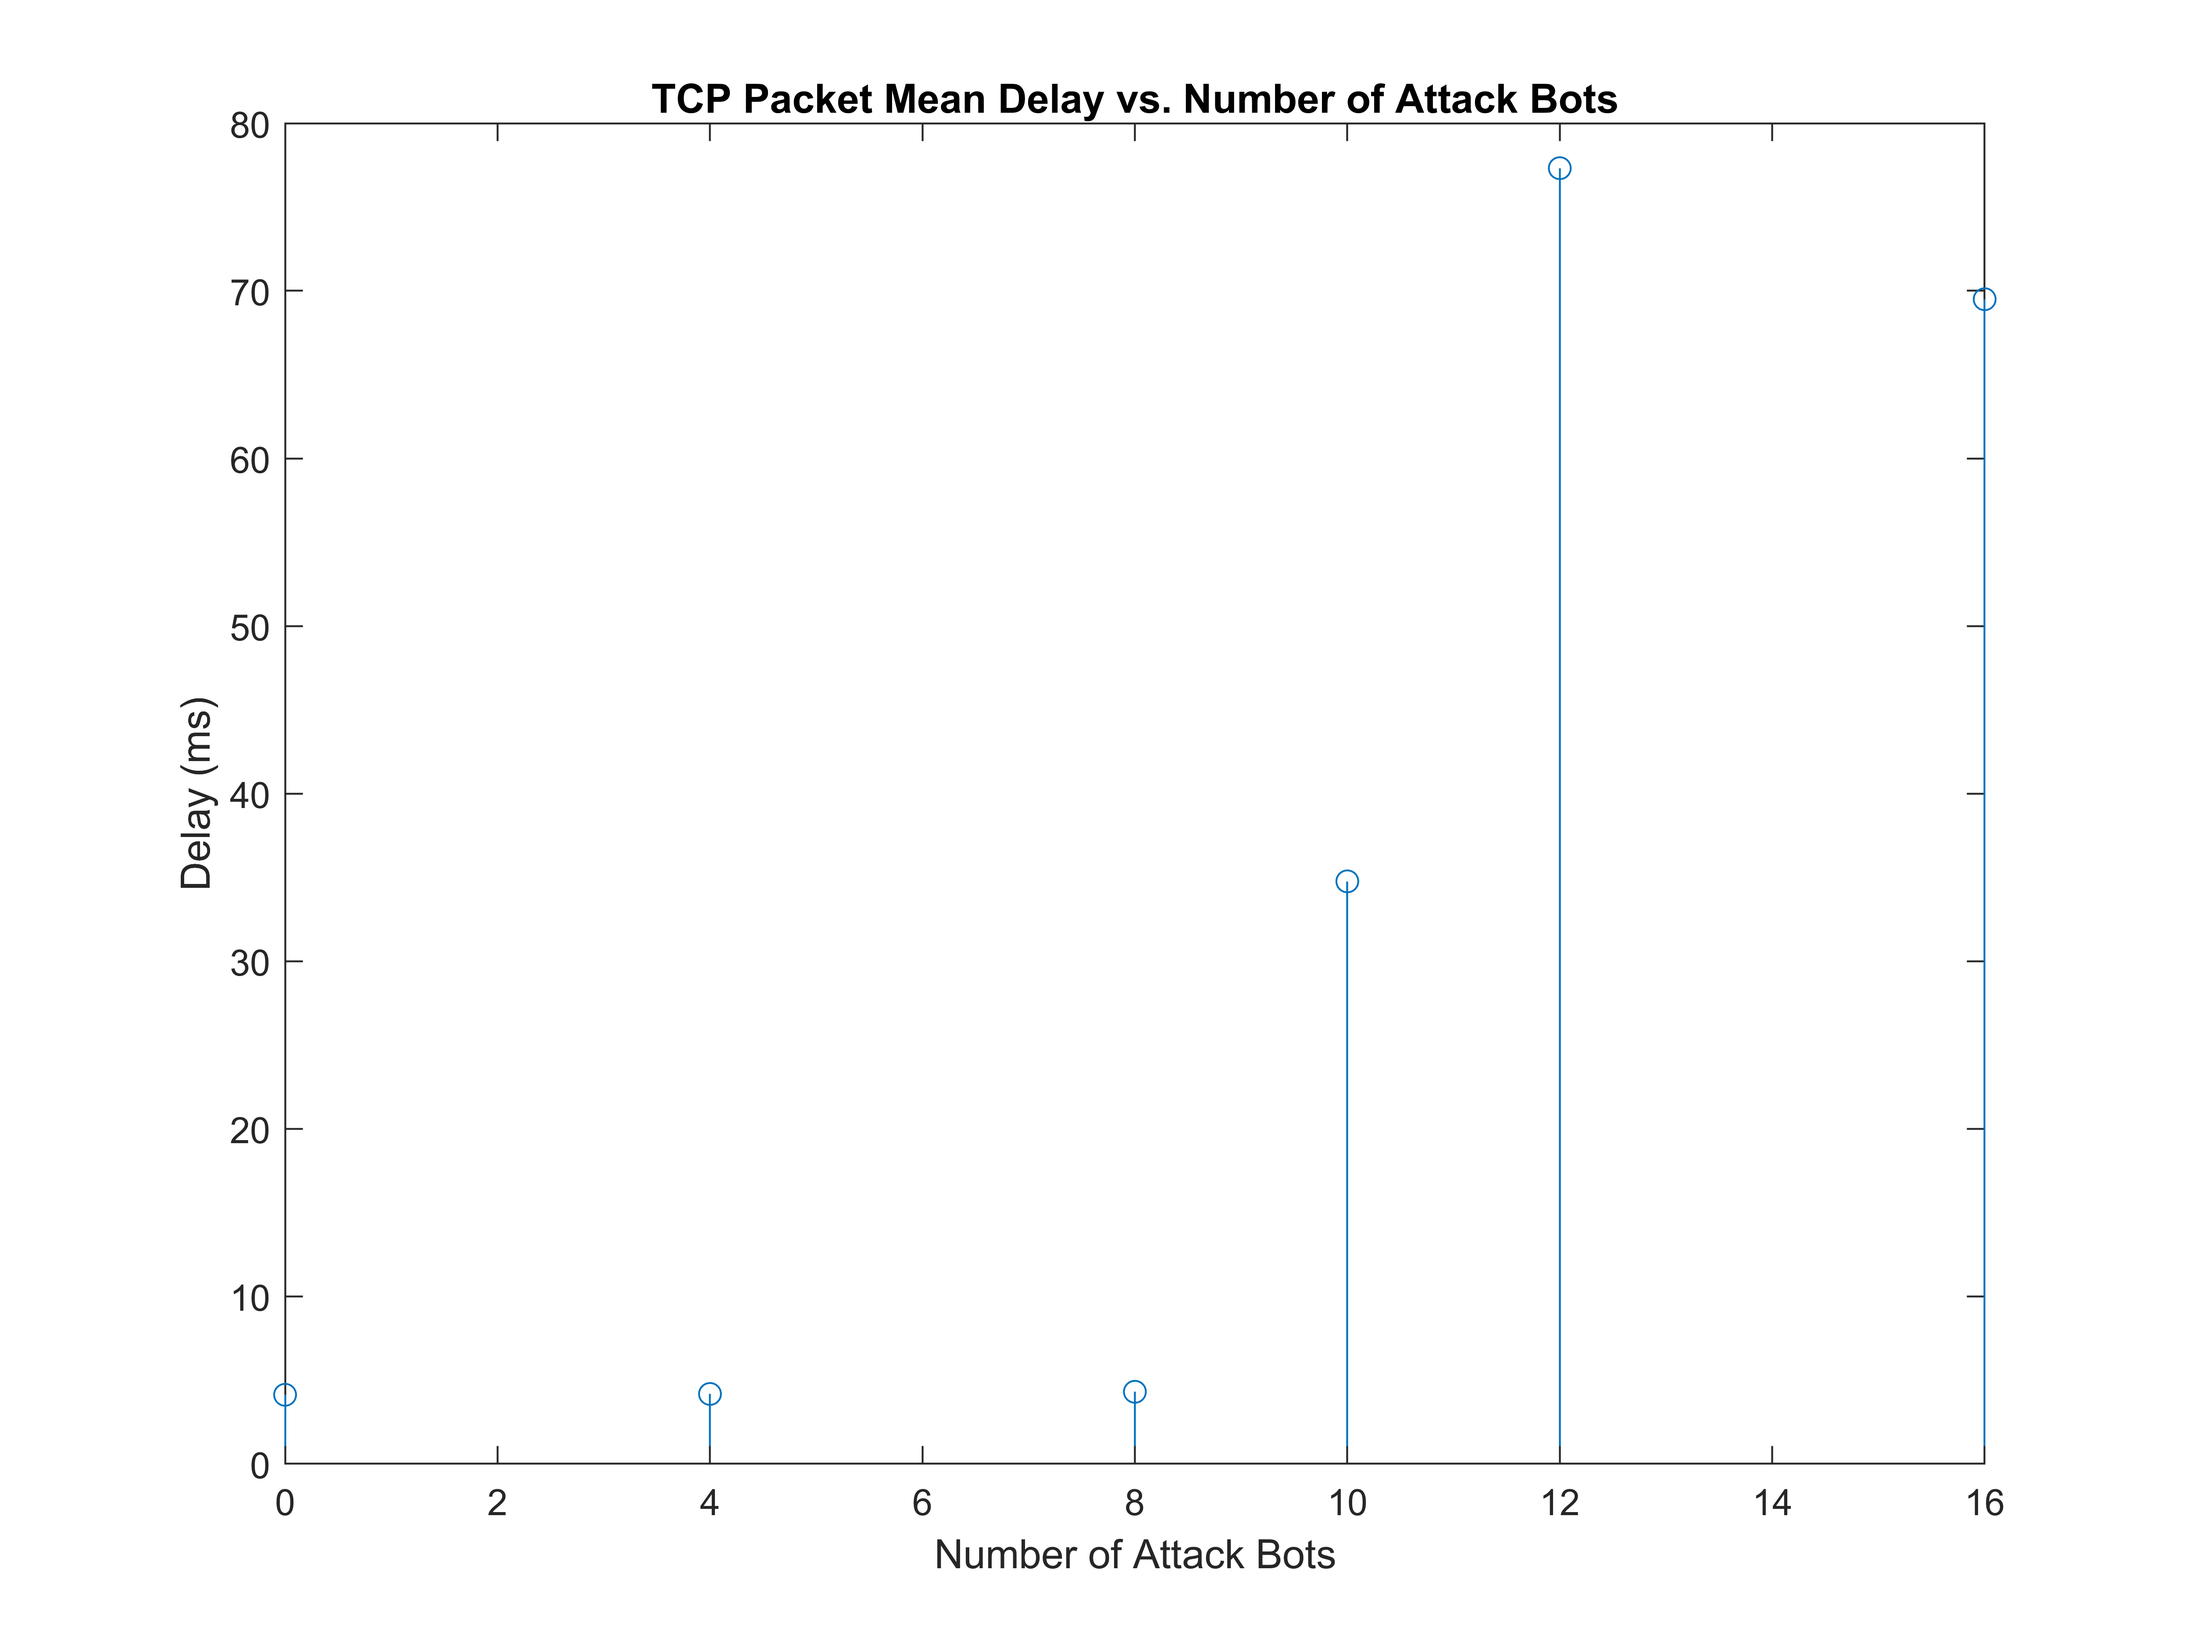
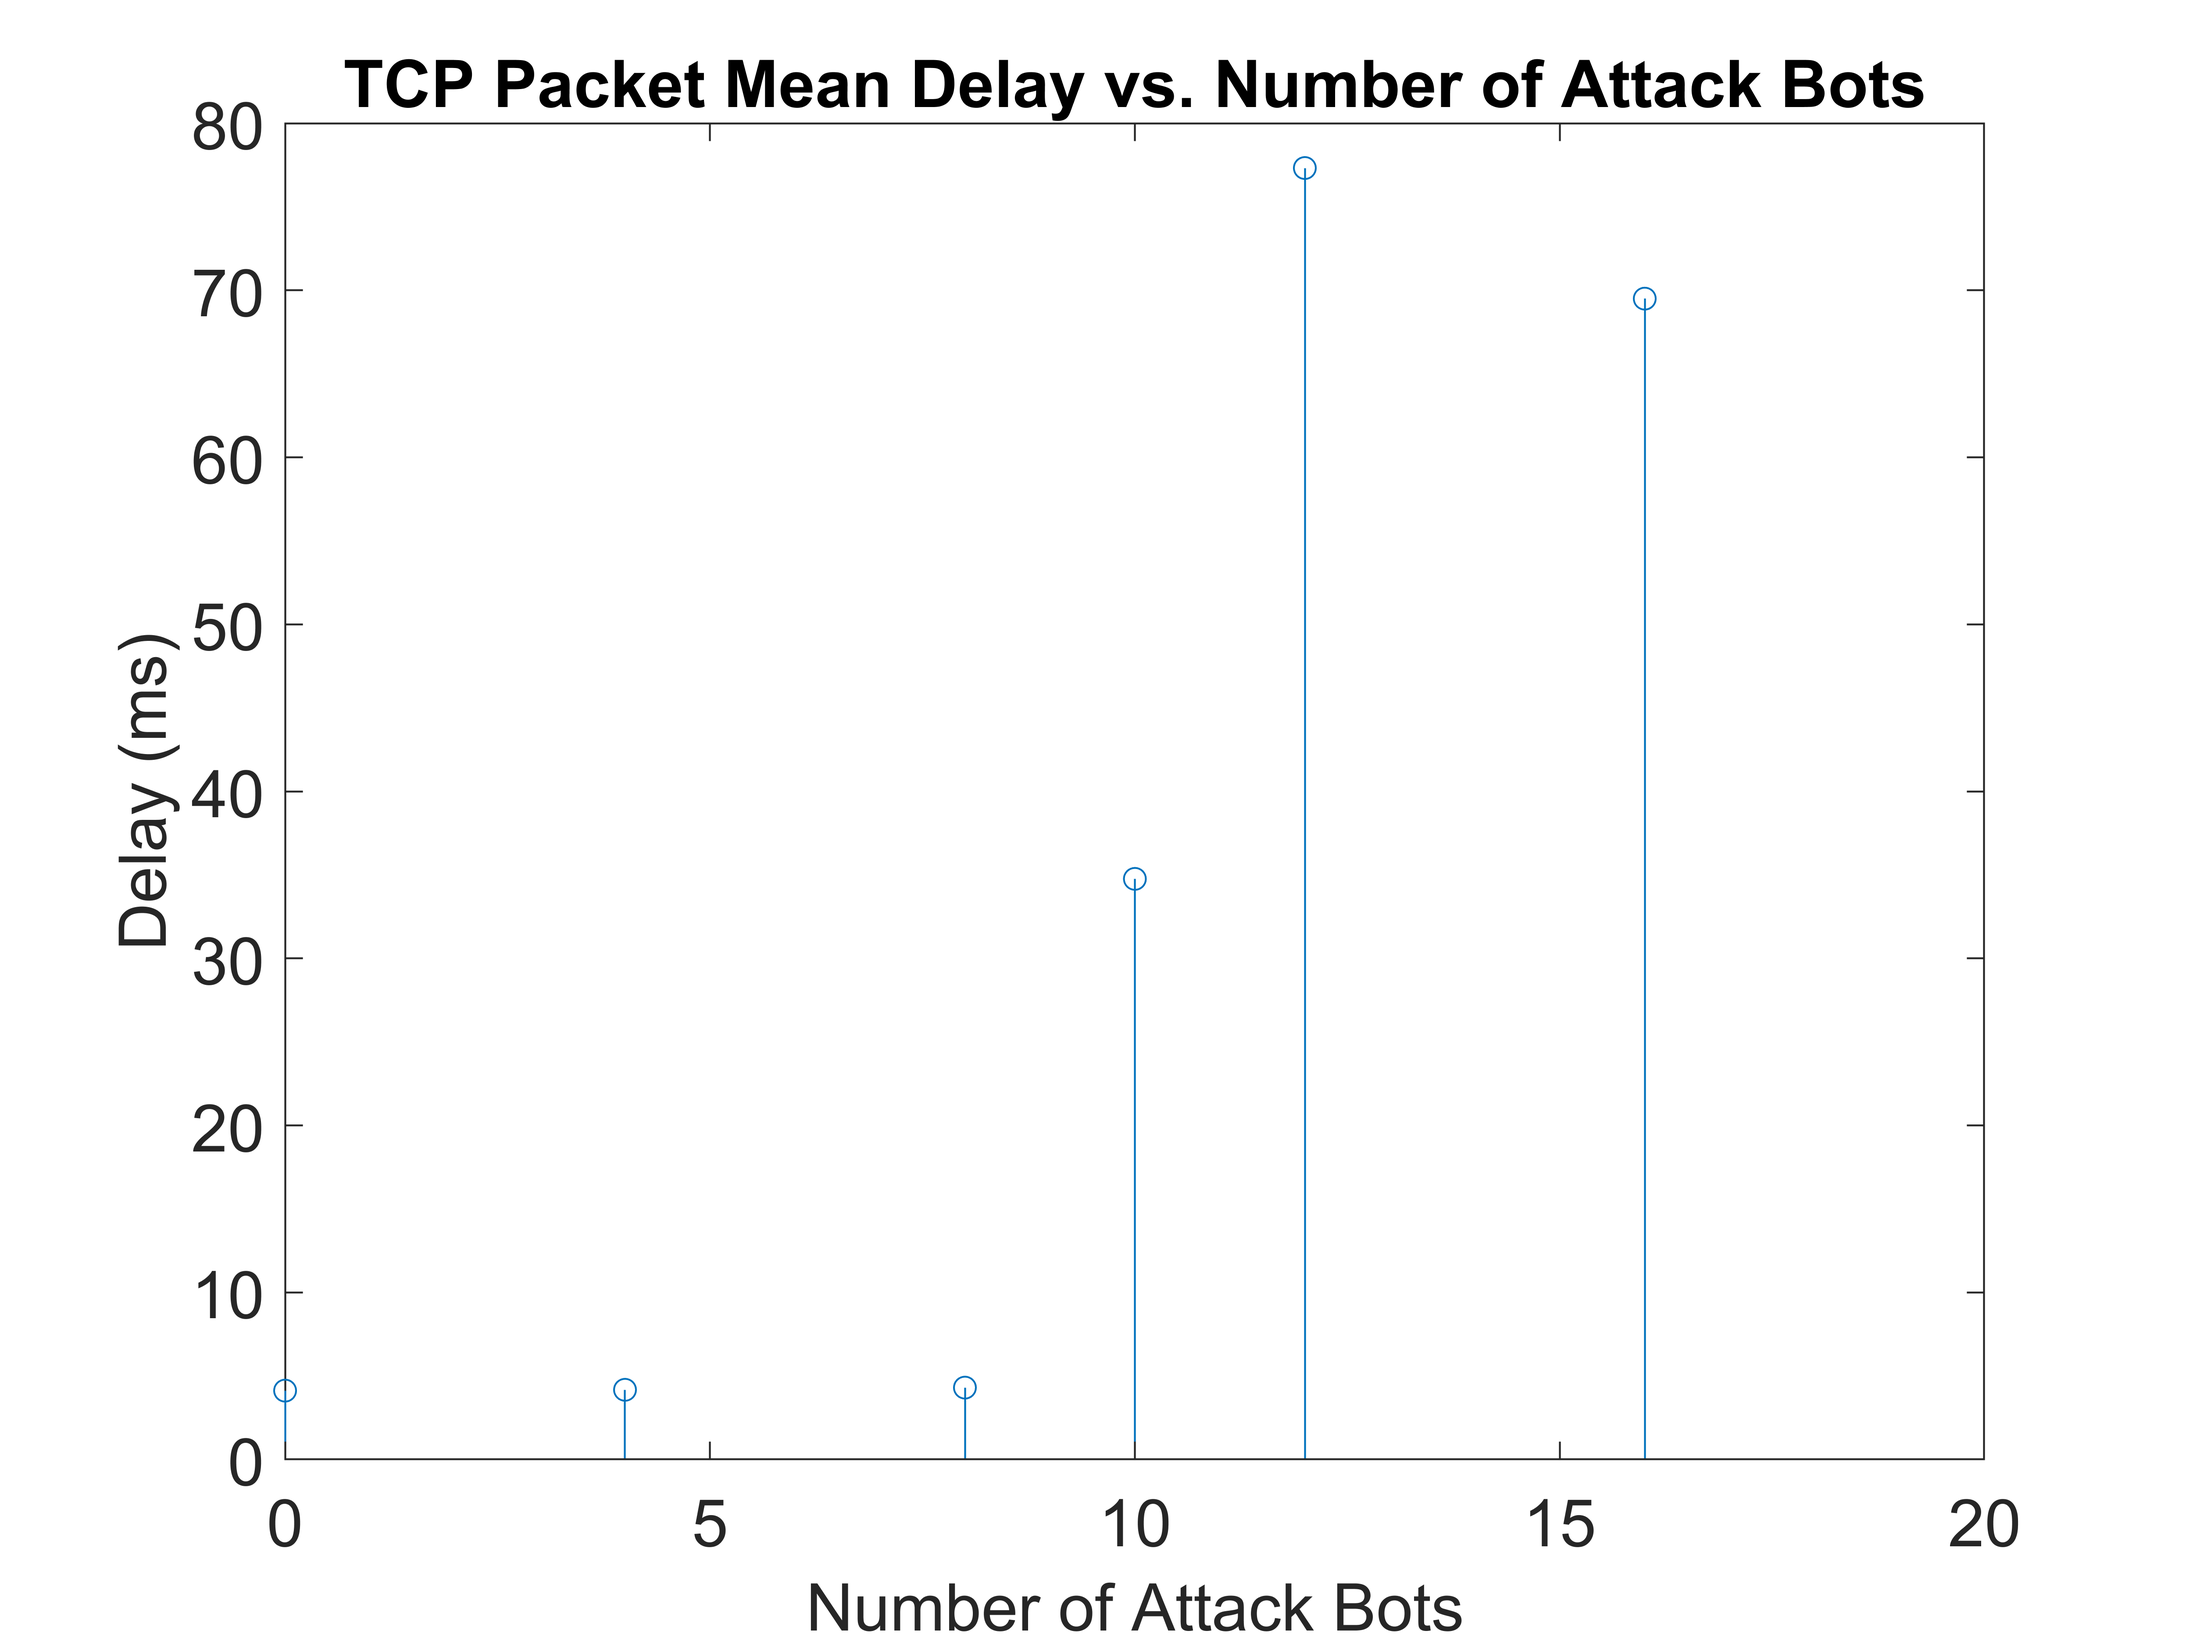
graphing

diff --git a/plot_TX_bitrate.m b/plot_TX_bitrate.m
@@ -14,9 +14,9 @@ stem(x, y, '-o', 'MarkerSize', 6);
 % Label the axes and give the plot a title
 xlabel('Number of Attack Bots');
 %xticks([0, 4, 8, 10, 12, 16]);
-ylabel('Bitrate (kbit/s)');
-title('TCP Transmit Bitrate vs. Number of Attack Bots');
-
+ylabel('Bitrate (kbps)');
+title('Transmit Bitrate vs. Number of Attack Bots');
+fontsize(gca,24,"pixels")
 set(gcf, 'Position', [100 100 800 600]);
 set(gcf, 'Visible', 'off');
 print(folder + '/' + filename + '.png', '-dpng', '-r600');

diff --git a/plot_RX_bitrate.m b/plot_RX_bitrate.m
@@ -14,9 +14,9 @@ stem(x, y, '-o', 'MarkerSize', 6);
 % Label the axes and give the plot a title
 xlabel('Number of Attack Bots');
 %xticks([0, 4, 8, 10, 12, 16]);
-ylabel('Bitrate (kbit/s)');
-title('TCP Receive Bitrate vs. Number of Attack Bots');
-
+ylabel('Bitrate (kbps)');
+title('Receive Bitrate vs. Number of Attack Bots');
+fontsize(gca,24,"pixels")
 set(gcf, 'Position', [100 100 800 600]);
 set(gcf, 'Visible', 'off');
 print(folder + '/' + filename + '.png', '-dpng', '-r600');

diff --git a/plot_tcp_congestion.m b/plot_tcp_congestion.m
@@ -16,8 +16,8 @@ function plot_tcp_congestion(path, num_bots)
     xlabel('Time (s)');
     ylabel('Congestion Window (cwnd)');
     title('TCP Congestion Window Size vs. Time', '( Attack Bots = ' + num_bots + ' )');
-
-    set(gcf, 'Position', [100 100 1920 1080]);
+    fontsize(gca,40,"pixels")
+    set(gcf, 'Position', [100 100 1600 1200]);
     set(gcf, 'Visible', 'off');
     print(folder + '/' + filename + '.png', '-dpng', '-r600');
 

diff --git a/plot_all_tcp_congestion.m b/plot_all_tcp_congestion.m
@@ -1,0 +1,7 @@
+plot_tcp_congestion("Results/tcp_cwnd_0.dat", "0");
+plot_tcp_congestion("Results/tcp_cwnd_0.dat", "0");
+plot_tcp_congestion("Results/tcp_cwnd_4.dat", "4");
+plot_tcp_congestion("Results/tcp_cwnd_8.dat", "8");
+plot_tcp_congestion("Results/tcp_cwnd_10.dat", "10");
+plot_tcp_congestion("Results/tcp_cwnd_12.dat", "12");
+plot_tcp_congestion("Results/tcp_cwnd_16.dat", "16");

diff --git a/plot_packet_loss_ratio.m b/plot_packet_loss_ratio.m
@@ -16,7 +16,7 @@ xlabel('Number of Attack Bots');
 %xticks([0, 4, 8, 10, 12, 16]);
 ylabel('Packet Loss Ratio (%)');
 title('Packet Loss Ratio vs. Number of Attack Bots');
-
+fontsize(gca,24,"pixels")
 set(gcf, 'Position', [100 100 800 600]);
 set(gcf, 'Visible', 'off');
 print(folder + '/' + filename + '.png', '-dpng', '-r600');

diff --git a/plot_mean_delay.m b/plot_mean_delay.m
@@ -17,7 +17,7 @@ xlabel('Number of Attack Bots');
 %xticks([0, 4, 8, 10, 12, 16]);
 ylabel('Delay (ms)');
 title('TCP Packet Mean Delay vs. Number of Attack Bots');
-
+fontsize(gca,24,"pixels")
 set(gcf, 'Position', [100 100 800 600]);
 set(gcf, 'Visible', 'off');
 print(folder + '/' + filename + '.png', '-dpng', '-r600');
